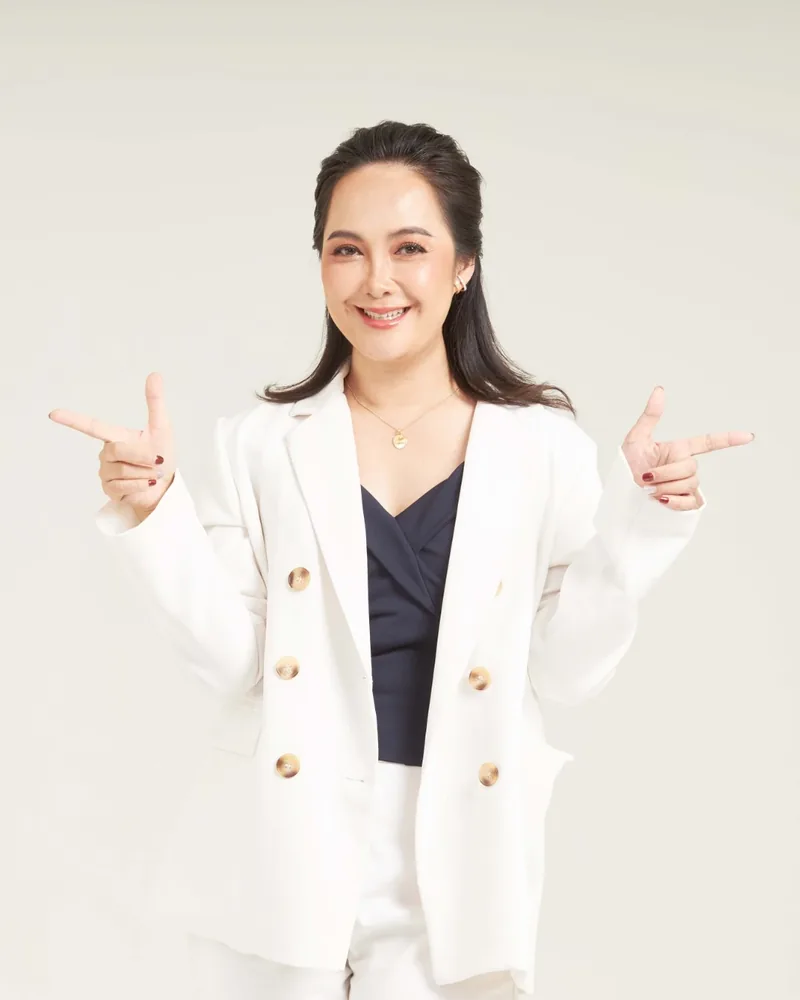
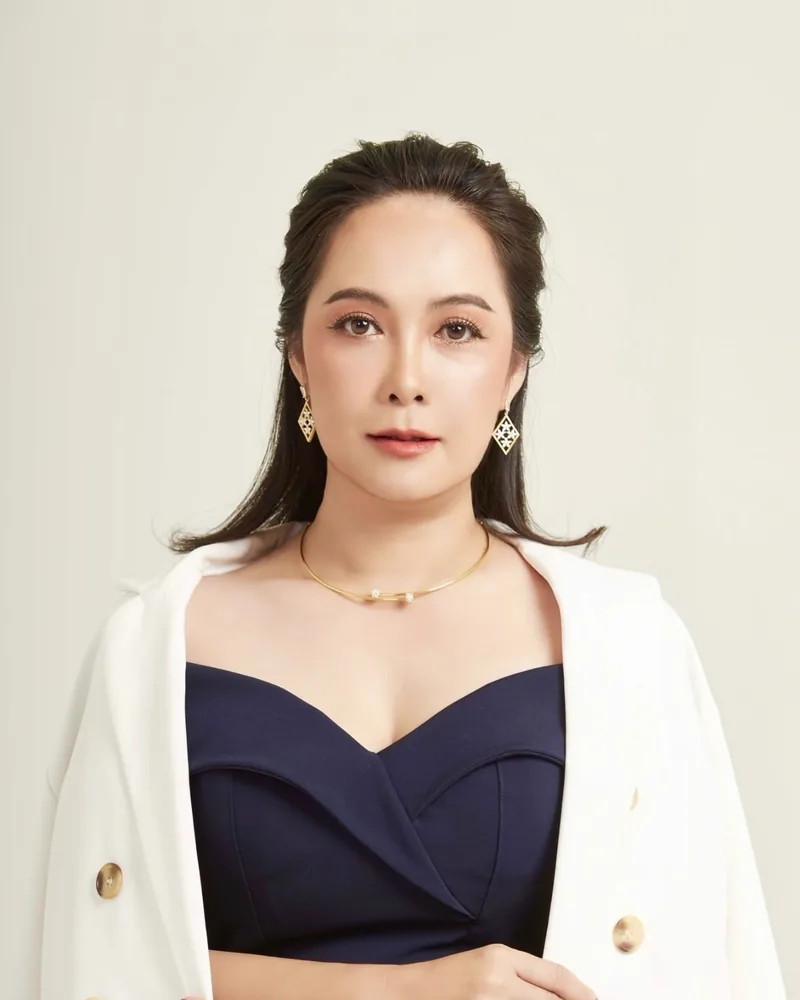
Add files via upload

diff --git a/index.html b/index.html
@@ -103,10 +103,15 @@
           <li>อดีตครูคอมพิวเตอร์</li>
           <li>คุณแม่</li>
           <li>ผู้ประกอบการ</li>
-          <li>ผู้ศึกษา Coaching</li>
+          <li>ICF Coach</li>
         </ul>
-        <p class="lead">โค้ชมิวเชื่อว่าแบรนด์ที่ยั่งยืนเริ่มจากการเข้าใจตัวเอง และใช้ AI เป็นเครื่องมือช่วยเล่าเรื่องของคุณ ไม่ใช่แทนที่ตัวคุณ</p>
-        <!-- TODO: ใส่ประวัติ/ผลงานโค้ชมิวที่ยืนยันแล้ว (ห้ามใส่ตัวเลขที่ยังไม่ยืนยัน) -->
+        <div class="coach-bio">
+          <p class="lead">จากครูสอนคอมพิวเตอร์ สู่การเป็นคุณแม่ลูก 3 ผู้ประกอบการ และ ICF Coach เส้นทางชีวิตที่หลากหลายทำให้โค้ชมิวได้เรียนรู้ว่า ทุกช่วงเวลาของชีวิตล้วนมีคุณค่า และทุกคนสามารถนำความรู้ ความสามารถ และประสบการณ์ที่มี มาสร้างโอกาสใหม่ให้กับตัวเองได้เสมอ</p>
+          <p class="lead">โค้ชมิวเชื่อว่าการสร้าง Personal Brand ที่ยั่งยืน ไม่ได้เริ่มจากการพยายามเป็นเหมือนใคร แต่เริ่มจากการเข้าใจตัวเอง มองเห็นจุดแข็ง และกล้าที่จะส่งต่อคุณค่าในแบบของเรา โดยมี AI และเทคโนโลยีเป็นเครื่องมือที่ช่วยให้ทุกอย่างง่ายขึ้น</p>
+          <p class="lead">วันนี้โค้ชมิวจึงอยากเป็นเพื่อนร่วมทางที่ช่วยให้คุณค้นพบศักยภาพของตัวเอง เปลี่ยนความสามารถให้เป็นโอกาส และสร้างตัวตนบนโลกออนไลน์ได้อย่างมั่นใจและมีความสุข</p>
+          <p class="bio-close">เพราะทุกคนมีแสงในแบบของตัวเอง และคุณก็มีแสงที่รอวันเปล่งประกาย</p>
+          <p class="eyebrow">Find Your Light. Build Your Brand.</p>
+        </div>
       </div>
     </div>
   </section>
@@ -131,9 +136,9 @@
   <section id="services" class="s-navy">
     <div class="wrap">
       <div class="sec-head">
-        <span class="eyebrow th">ทางเลือกต่อจากผลฟรี</span>
+        <span class="eyebrow">Your Next Journey</span>
         <h2>เลือกเส้นทางที่เหมาะกับคุณ</h2>
-        <p class="lead">เลือกได้ตามจังหวะของคุณเอง</p>
+        <p class="lead">ต่อยอดศักยภาพและสร้าง Personal Brand ผ่านรูปแบบการเรียนรู้ที่ตอบโจทย์คุณ</p>
       </div>
       <div class="grid grid-2">
         <article class="card c-lgold" id="coaching">

diff --git a/quiz.html b/quiz.html
@@ -248,9 +248,7 @@
                 <span class="symbol">${esc(t.symbol)}</span>
               </div>
             </div>
-            <div class="face back tarot c-lgold" aria-hidden="true">
-              <span class="t-frame" aria-hidden="true"><i class="tl"></i><i class="tr"></i><i class="bl"></i><i class="br"></i></span>
-              <span class="t-rule" aria-hidden="true"><b>✦</b></span>
+            <div class="face back c-lgold" aria-hidden="true">
               <span class="back-head">${esc(t.display_name)} · ${esc(t.symbol)}</span>
               <div class="back-block">
                 <b>Your Cosmic Power</b>
@@ -513,11 +511,13 @@
   }
   function drawBack(t){
     const c = document.createElement('canvas'); c.width = CW; c.height = CH; const x = c.getContext('2d');
-    tarotFrame(x, PAL.NAVY, PAL.LGOLD);
-    const L = 120, MAXW = CW - 2*L;
+    // back is plain on purpose: no frame, corner stars or rule behind the text (easier to read)
+    rrect(x, 0, 0, CW, CH, 80); x.fillStyle = PAL.LGOLD; x.fill();
+    x.strokeStyle = PAL.NAVY; x.lineWidth = 6; rrect(x, 18, 18, CW-36, CH-36, 66); x.stroke();
+    const L = 110, MAXW = CW - 2*L;
     // lay out once to measure, shrink the text if it would run past the frame
     const layout = (k, draw) => {
-      let y = 250;
+      let y = 170;
       const head = (s) => { if(draw) txt(x, s, L, y, `500 ${46*k}px Prompt`, PAL.DEEP, '0px', 'left'); y += 66*k; };
       const rule = () => { if(draw){ x.strokeStyle = 'rgba(16,26,47,.25)'; x.lineWidth = 2; x.beginPath(); x.moveTo(L, y); x.lineTo(CW-L, y); x.stroke(); } y += 70*k; };
       if(draw) txt(x, `${t.display_name} · ${t.symbol}`.toUpperCase(), L, y, `500 ${36*k}px Prompt`, PAL.NAVY, '8px', 'left');

diff --git a/style.css b/style.css
@@ -455,7 +455,7 @@ footer{background:var(--brand-deep-navy);color:rgba(244,239,232,.8);padding-bloc
 .flip-card .front .tag{font-size:15px;color:rgba(244,239,232,.85);max-width:30ch;margin:0}
 .t-name{display:grid;justify-items:center;gap:2px;width:100%;margin-top:8px;padding-top:12px;border-top:1px solid var(--t-line)}
 .t-name h1{font-size:clamp(30px,8vw,40px);letter-spacing:.12em;text-transform:uppercase;line-height:1.2}
-.flip-card .back.tarot{padding:30px 30px 26px}
+.flip-card .back{padding:30px 26px 26px;border-color:var(--brand-navy)}
 
 /* gentle wobble now and then so people notice the card can turn */
 .flip-card[data-flipped="false"]:not(:hover){animation:cardIn 1s cubic-bezier(.2,.8,.2,1) backwards,nudge 6s ease-in-out 3s infinite}
@@ -465,3 +465,9 @@ footer{background:var(--brand-deep-navy);color:rgba(244,239,232,.8);padding-bloc
   .flip-card,.flip-card[data-flipped="true"]{transform:none!important;animation:none!important;display:grid;gap:16px;width:100%}
   .flip-card .face{grid-area:auto;transform:none!important;backface-visibility:visible;min-height:0;break-inside:avoid}.stars::before,.stars::after,.meteors,.sparkles,.btn-gold::after,.bar i::after{display:none}
   .hero h1 span{-webkit-text-fill-color:currentColor;background:none}}
+
+/* Coach bio (Home #coach) */
+.coach-bio{display:grid;gap:14px}
+.coach-bio .lead{margin:0}
+.coach-bio .bio-close{margin:4px 0 0;font-size:clamp(18px,2.4vw,21px);font-weight:500;color:var(--head);border-left:3px solid var(--brand-gold);padding-left:14px}
+.coach-bio .eyebrow{margin:0}
